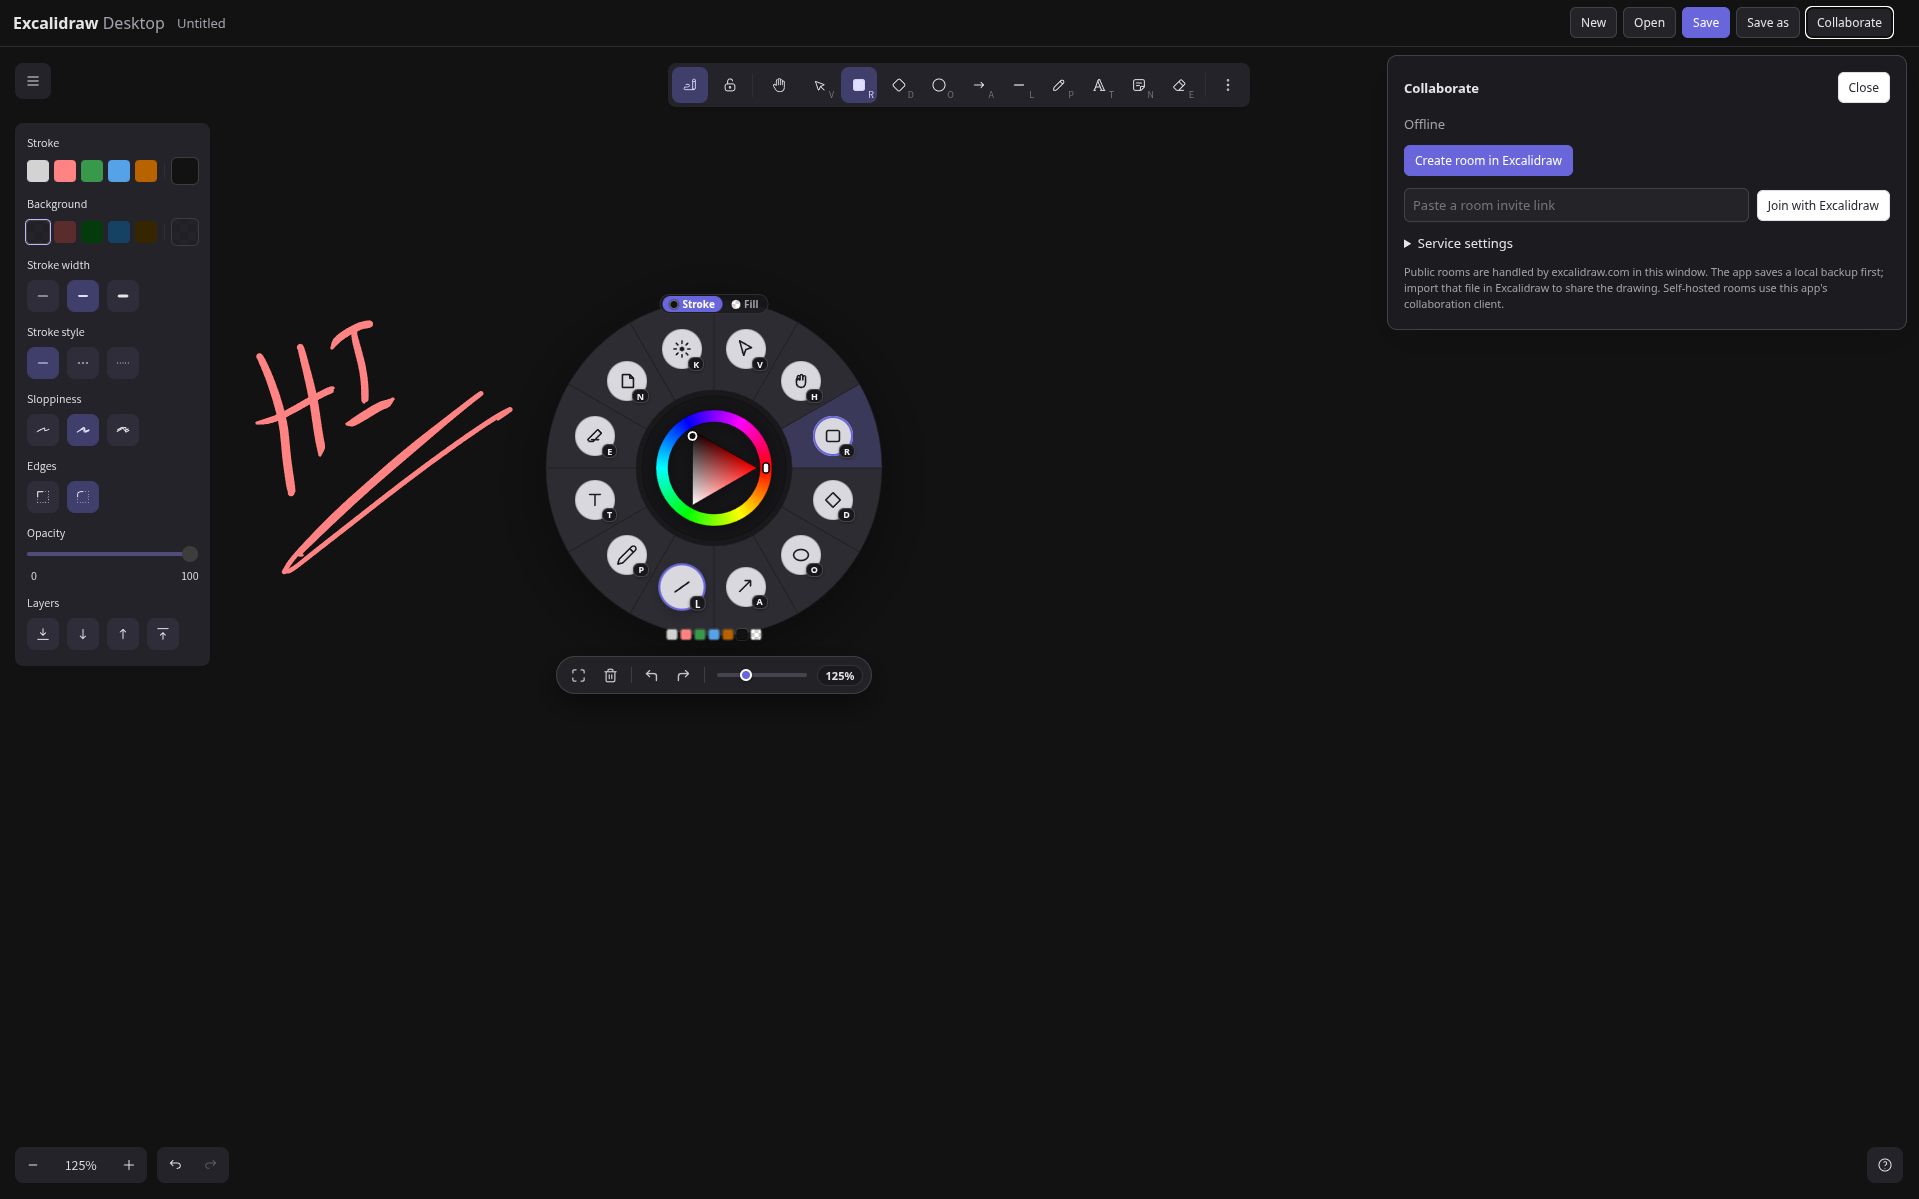
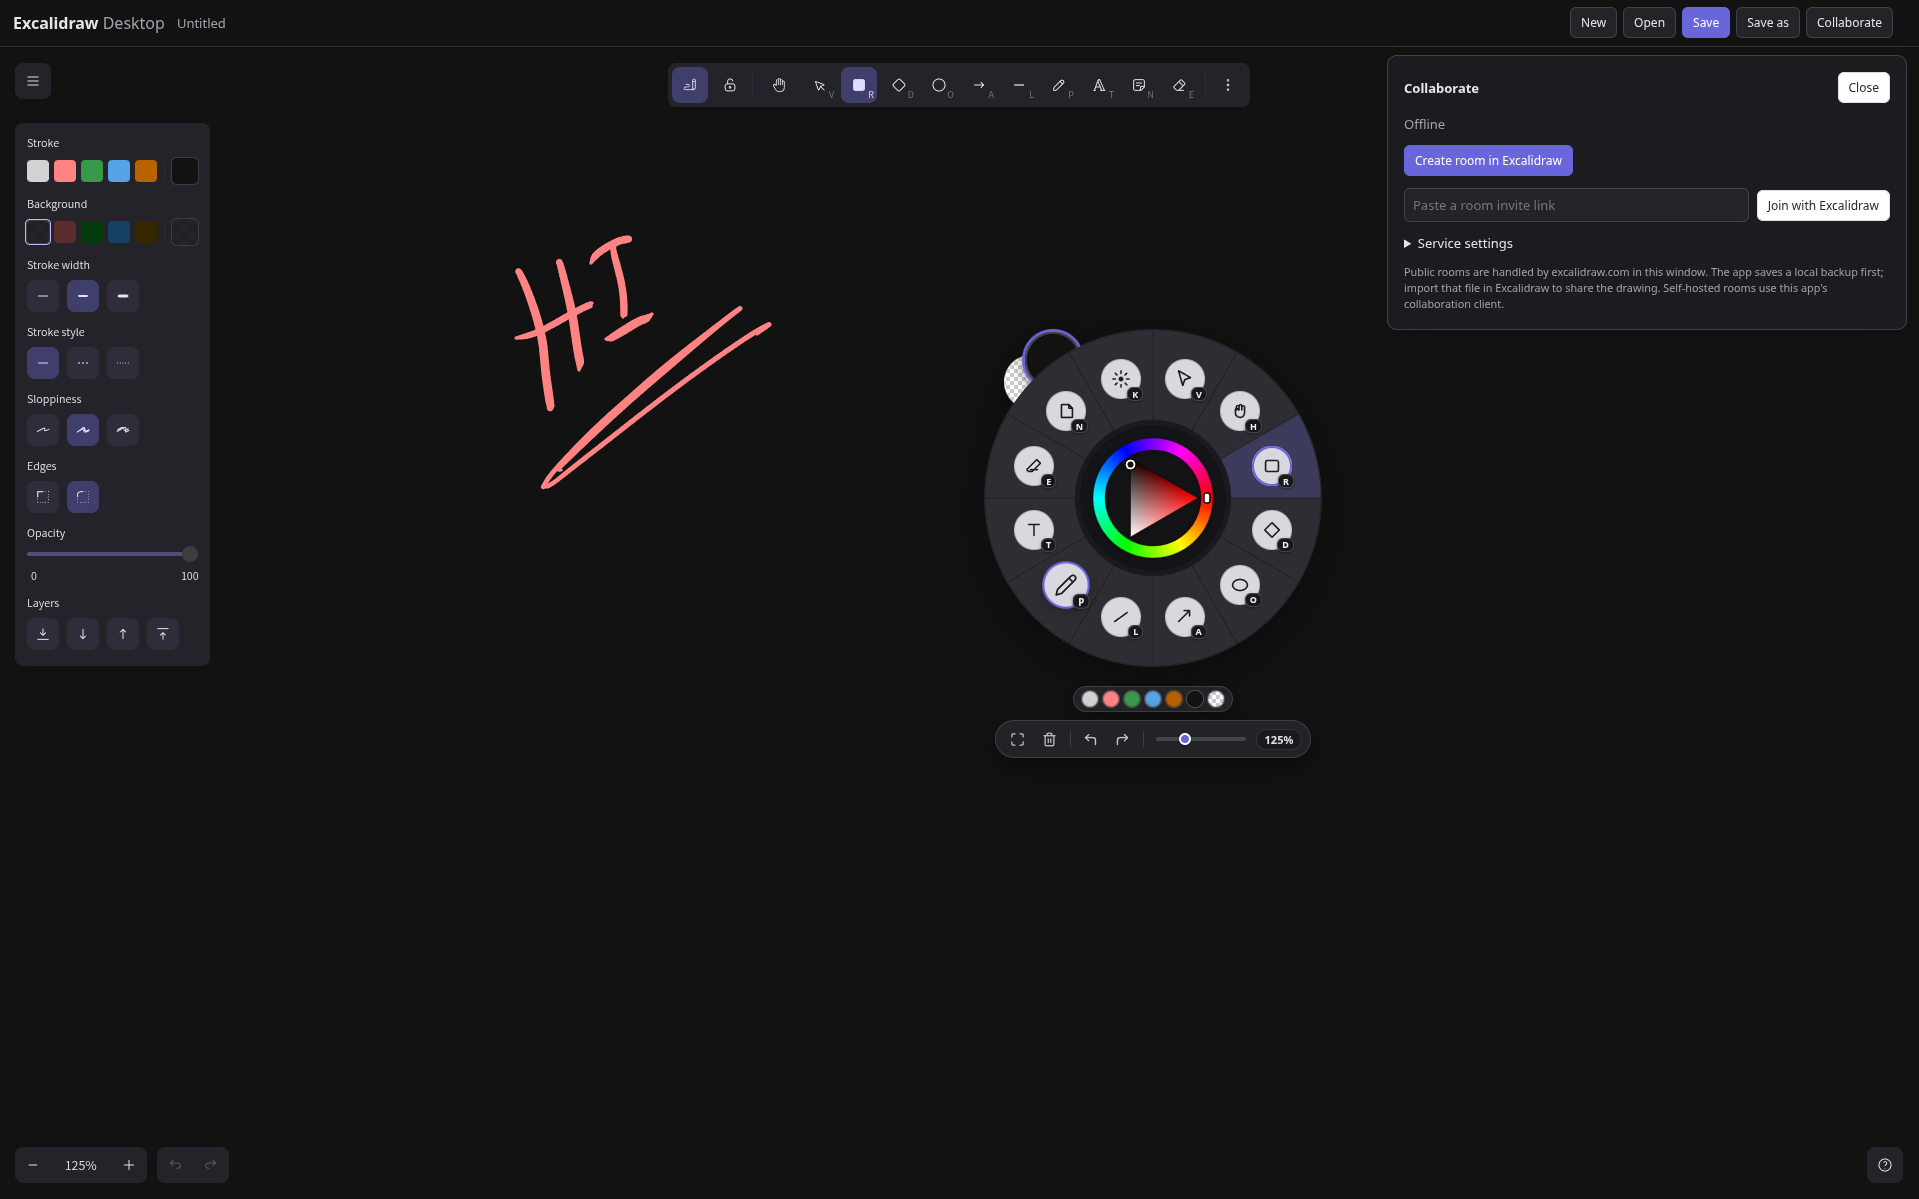
feat(radial): redesign tool wheel layout and color controls

Changed region(s): [[0.123, 0.1852, 0.4612, 0.5863], [0.4919, 0.2777, 0.7071, 0.6172]]

diff --git a/src/ui/styles.css b/src/ui/styles.css
@@ -195,14 +195,19 @@ button.primary:hover { background: #5753c5; }
   color: #ffffff;
   border-color: #6965db;
 }
-.radial-wheel-ring { display: block; }
+.radial-wheel-ring {
+  display: block;
+  position: relative;
+  z-index: 2;
+  pointer-events: none;
+}
 .radial-wheel-frame {
-  fill: #2a2a2ecc;
-  stroke: #1118;
+  fill: #1c1c20;
+  stroke: rgba(255, 255, 255, 0.12);
   stroke-width: 1.5;
 }
 .radial-wheel-sector {
-  fill: #3a3a3ef2;
+  fill: #2d2d33;
   stroke: #1a1a1e88;
   stroke-width: 1;
   transition: fill 80ms ease;
@@ -218,6 +223,7 @@ button.primary:hover { background: #5753c5; }
 
 .radial-wheel-slot {
   position: absolute;
+  z-index: 4;
   width: 40px;
   height: 40px;
   display: flex;
@@ -257,67 +263,59 @@ button.primary:hover { background: #5753c5; }
 .radial-wheel-hub-content {
   position: absolute;
   inset: 0;
+  z-index: 5;
   display: flex;
   align-items: center;
   justify-content: center;
   pointer-events: none;
 }
 
-.radial-wheel-color-bar {
-  display: flex;
-  align-items: center;
-  justify-content: center;
-  gap: 6px;
-  background: #232328f5;
-  border: 1px solid #ffffff1f;
-  box-shadow: 0 8px 24px rgba(0, 0, 0, 0.4);
-  border-radius: 999px;
-  padding: 3px 8px;
-  backdrop-filter: blur(8px);
+/* Krita-style top-left color target ears (Stroke & Fill) - underlapping the wheel ring */
+.radial-wheel-target-ears {
+  position: absolute;
+  top: 15px;
+  left: 31px;
+  width: 76px;
+  height: 76px;
   pointer-events: auto;
+  z-index: 1; /* Sits underneath the wheel ring (z-index: 2) */
 }
 
-.radial-wheel-color-bar-divider {
-  width: 1px;
-  height: 16px;
-  background: #ffffff1f;
-  margin: 0 1px;
-}
-
-.radial-wheel-target-toggle {
-  display: flex;
-  gap: 2px;
-  background: #18181cb0;
+.radial-wheel-ear-btn {
+  position: absolute;
+  width: 54px;
+  height: 54px;
   border-radius: 999px;
-  padding: 2px;
-  box-shadow: inset 0 0 0 1px #ffffff14;
-}
-
-.radial-wheel-target-btn {
-  display: flex;
-  align-items: center;
-  gap: 4px;
-  background: transparent;
-  border: 0;
-  padding: 2px 7px;
-  border-radius: 999px;
-  color: #a0a0ab;
-  font-size: 10px;
-  font-weight: 600;
+  border: 2px solid rgba(255, 255, 255, 0.2);
   cursor: pointer;
-  transition: all 120ms ease;
+  padding: 0;
+  transition: transform 120ms ease, box-shadow 120ms ease;
+  box-shadow: 0 4px 12px rgba(0, 0, 0, 0.5);
 }
 
-.radial-wheel-target-btn.is-active {
-  background: #6965db;
-  color: #ffffff;
+/* Foreground / Stroke circle (top-right) */
+.radial-wheel-ear-btn.is-stroke {
+  top: 0;
+  left: 22px;
+  z-index: 2;
 }
 
-.radial-wheel-swatch-dot {
-  width: 9px;
-  height: 9px;
-  border-radius: 999px;
-  box-shadow: inset 0 0 0 1px #fff6, 0 0 0 1px #0004;
+/* Background / Fill circle (bottom-left, overlapping) */
+.radial-wheel-ear-btn.is-fill {
+  top: 22px;
+  left: 0;
+  z-index: 1;
+}
+
+.radial-wheel-ear-btn.is-active {
+  z-index: 3 !important;
+  box-shadow: 0 0 0 2.5px #6965db, 0 4px 14px rgba(0, 0, 0, 0.6);
+  transform: scale(1.05);
+}
+
+.radial-wheel-ear-btn:hover:not(.is-active) {
+  transform: scale(1.03);
+  box-shadow: 0 0 0 1.5px rgba(255, 255, 255, 0.4), 0 4px 12px rgba(0, 0, 0, 0.5);
 }
 
 .radial-color-wheel-wrapper {
@@ -339,8 +337,15 @@ button.primary:hover { background: #5753c5; }
   display: flex;
   flex-wrap: nowrap;
   align-items: center;
-  gap: 4px;
-  padding: 0;
+  justify-content: center;
+  gap: 5px;
+  background: #232328f5;
+  border: 1px solid #ffffff1f;
+  box-shadow: 0 8px 24px rgba(0, 0, 0, 0.35);
+  border-radius: 999px;
+  padding: 4px 8px;
+  backdrop-filter: blur(8px);
+  pointer-events: auto;
 }
 
 .radial-wheel-pick {
@@ -366,11 +371,11 @@ button.primary:hover { background: #5753c5; }
   filter: drop-shadow(0 10px 26px rgba(0, 0, 0, 0.14));
 }
 .radial-wheel-container.is-light .radial-wheel-frame {
-  fill: #e0e0e6ee;
-  stroke: rgba(0, 0, 0, 0.08);
+  fill: #e8e8ee;
+  stroke: rgba(0, 0, 0, 0.1);
 }
 .radial-wheel-container.is-light .radial-wheel-sector {
-  fill: #ededf3f7;
+  fill: #f3f3f8;
   stroke: rgba(0, 0, 0, 0.06);
 }
 .radial-wheel-container.is-light .radial-wheel-sector.is-active {
@@ -398,31 +403,20 @@ button.primary:hover { background: #5753c5; }
   border-color: rgba(0, 0, 0, 0.15);
   box-shadow: 0 1px 3px rgba(0, 0, 0, 0.12);
 }
-.radial-wheel-container.is-light .radial-wheel-target-toggle {
-  background: #ececf0;
-  box-shadow: inset 0 0 0 1px rgba(0, 0, 0, 0.08);
+.radial-wheel-container.is-light .radial-wheel-ear-btn {
+  border-color: #ffffff;
+  box-shadow: 0 0 0 1px rgba(0, 0, 0, 0.12), 0 3px 10px rgba(0, 0, 0, 0.2);
 }
-.radial-wheel-container.is-light .radial-wheel-target-btn {
-  color: #555562;
+.radial-wheel-container.is-light .radial-wheel-ear-btn.is-active {
+  box-shadow: 0 0 0 2.5px #6965db, 0 4px 14px rgba(0, 0, 0, 0.25);
 }
-.radial-wheel-container.is-light .radial-wheel-target-btn.is-active {
-  background: #6965db;
-  color: #ffffff;
+.radial-wheel-container.is-light .radial-wheel-ear-btn:hover:not(.is-active) {
+  box-shadow: 0 0 0 1.5px rgba(0, 0, 0, 0.25), 0 4px 12px rgba(0, 0, 0, 0.22);
 }
-.radial-wheel-container.is-light .radial-wheel-target-btn:hover:not(.is-active) {
-  color: #1e1e24;
-}
-.radial-wheel-container.is-light .radial-wheel-color-bar {
+.radial-wheel-container.is-light .radial-wheel-quick-picks {
   background: #fffffff5;
   border: 1px solid rgba(0, 0, 0, 0.1);
   box-shadow: 0 8px 24px rgba(0, 0, 0, 0.1);
-}
-.radial-wheel-container.is-light .radial-wheel-color-bar-divider {
-  background: rgba(0, 0, 0, 0.1);
-}
-.radial-wheel-container.is-light .radial-wheel-target-toggle {
-  background: #ececf0;
-  box-shadow: inset 0 0 0 1px rgba(0, 0, 0, 0.08);
 }
 .radial-wheel-container.is-light .radial-wheel-pick {
   box-shadow: inset 0 0 0 1px rgba(0, 0, 0, 0.2), 0 0 0 1px rgba(255, 255, 255, 0.8);
@@ -456,10 +450,10 @@ button.primary:hover { background: #5753c5; }
   border-color: #6965db;
 }
 
-.radial-wheel-container.is-dark .radial-wheel-frame { fill: #1a1a1ee8; }
-.radial-wheel-container.is-dark .radial-wheel-sector { fill: #2d2d33f2; }
-.radial-wheel-container.is-dark .radial-wheel-sector.is-active { fill: #3d3b5cf2; }
-.radial-wheel-container.is-dark .radial-wheel-hub { fill: #151518f7; }
+.radial-wheel-container.is-dark .radial-wheel-frame { fill: #1a1a1e; stroke: rgba(255, 255, 255, 0.12); }
+.radial-wheel-container.is-dark .radial-wheel-sector { fill: #2d2d33; }
+.radial-wheel-container.is-dark .radial-wheel-sector.is-active { fill: #3d3b5c; }
+.radial-wheel-container.is-dark .radial-wheel-hub { fill: #151518; }
 .radial-wheel-container.is-dark .radial-wheel-slot { background: #d8d8de; color: #1b1b20; }
 .app-shell[data-theme="dark"] .collab-panel.radial-settings-panel { border-color: #414148; background: #1c1c20; color: #e5e5e5; }
 

diff --git a/src/ui/RadialToolWheel.tsx b/src/ui/RadialToolWheel.tsx
@@ -110,6 +110,26 @@ export function RadialToolWheel({
             height: RADIAL_WHEEL_SIZE,
           }}
         >
+          {/* Krita-style top-left overlapping color target ears (Stroke & Fill) - underlapping the wheel ring */}
+          <div className="radial-wheel-target-ears" role="group" aria-label="Color targets">
+            <button
+              type="button"
+              className={`radial-wheel-ear-btn is-fill${colorTarget === "fill" ? " is-active" : ""}`}
+              style={swatchStyle(fillColor)}
+              onClick={() => onSetColorTarget("fill")}
+              title="Fill color (Background)"
+              aria-label="Set fill color target"
+            />
+            <button
+              type="button"
+              className={`radial-wheel-ear-btn is-stroke${colorTarget === "stroke" ? " is-active" : ""}`}
+              style={swatchStyle(strokeColor)}
+              onClick={() => onSetColorTarget("stroke")}
+              title="Stroke color (Foreground)"
+              aria-label="Set stroke color target"
+            />
+          </div>
+
           <svg
             className="radial-wheel-ring"
             width={RADIAL_WHEEL_SIZE}
@@ -167,6 +187,7 @@ export function RadialToolWheel({
             );
           })}
 
+          {/* Central hub with only the color wheel */}
           <div className="radial-wheel-hub-content">
             <RadialColorWheel
               color={currentColor}
@@ -176,44 +197,19 @@ export function RadialToolWheel({
           </div>
         </div>
 
-        {/* Floating color shelf: Stroke/Fill toggle + Quick picks */}
-        <div className="radial-wheel-color-bar" role="toolbar" aria-label="Color selection and swatches">
-          <div className="radial-wheel-target-toggle">
+        {/* Color picks dock */}
+        <div className="radial-wheel-quick-picks" role="toolbar" aria-label="Favorite colors">
+          {picks.map((color, index) => (
             <button
+              key={`${color}-${index}`}
               type="button"
-              className={`radial-wheel-target-btn${colorTarget === "stroke" ? " is-active" : ""}`}
-              onClick={() => onSetColorTarget("stroke")}
-              title="Stroke color"
-            >
-              <span className="radial-wheel-swatch-dot" style={swatchStyle(strokeColor)} />
-              <span>Stroke</span>
-            </button>
-            <button
-              type="button"
-              className={`radial-wheel-target-btn${colorTarget === "fill" ? " is-active" : ""}`}
-              onClick={() => onSetColorTarget("fill")}
-              title="Fill color"
-            >
-              <span className="radial-wheel-swatch-dot" style={swatchStyle(fillColor)} />
-              <span>Fill</span>
-            </button>
-          </div>
-
-          <div className="radial-wheel-color-bar-divider" />
-
-          <div className="radial-wheel-quick-picks">
-            {picks.map((color, index) => (
-              <button
-                key={`${color}-${index}`}
-                type="button"
-                className="radial-wheel-pick"
-                style={swatchStyle(color)}
-                title={color}
-                aria-label={`Use color ${color}`}
-                onClick={() => onSelectColor(color, false)}
-              />
-            ))}
-          </div>
+              className="radial-wheel-pick"
+              style={swatchStyle(color)}
+              title={color}
+              aria-label={`Use color ${color}`}
+              onClick={() => onSelectColor(color, false)}
+            />
+          ))}
         </div>
 
         {/* Krita-inspired floating bottom quick-bar */}

diff --git a/README.md b/README.md
@@ -6,7 +6,8 @@ This project packages the original [Excalidraw project](https://github.com/excal
 
 ![Excalidraw Desktop preview](docs/screenshot.png)
 
-> **Warning:** This is a hobby/experimental project. It has not been thoroughly tested, and data loss or other bugs are possible. Do not rely on it for critical work. Keep separate backups of important drawings.
+> [!WARNING]
+> This is a hobby/experimental project. It has not been thoroughly tested, and data loss or other bugs are possible. Do not rely on it for critical work. Keep separate backups of important drawings.
 
 ## What it does
 
